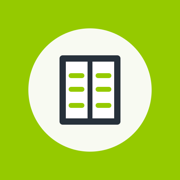
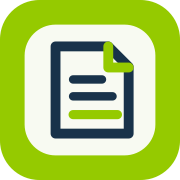
Release V1.0-c brand identity

diff --git a/index.html b/index.html
@@ -11,15 +11,16 @@
   <title>IELTS Knowledge Reader</title>
   <link rel="manifest" href="manifest.webmanifest" />
   <link rel="apple-touch-icon" sizes="180x180" href="icons/apple-touch-icon.png" />
+  <link rel="icon" type="image/svg+xml" href="icons/app-icon.svg" />
   <link rel="icon" type="image/png" sizes="192x192" href="icons/icon-192.png" />
-  <link rel="stylesheet" href="style.css?v=20260830-v1.0-b" />
+  <link rel="stylesheet" href="style.css?v=20260908-v1.0-c" />
 </head>
 <body>
   <div class="app-shell">
     <header class="topbar">
       <button id="readerBackButton" class="back-button is-hidden" type="button" data-action="go-back" aria-label="返回上一页">返回</button>
       <div class="topbar-copy">
-        <p class="topbar-eyebrow">IELTS Knowledge Reader</p>
+        <img class="topbar-logo" src="assets/brand/logo-horizontal.svg" alt="IELTS Knowledge Reader" width="320" height="80" />
         <h1 id="pageTitle" class="topbar-title">今日推荐</h1>
       </div>
       <div id="topbarMeta" class="topbar-meta">原创模拟文章</div>

diff --git a/sw.js b/sw.js
@@ -1,14 +1,21 @@
 const CACHE_PREFIX = 'ielts-knowledge-reader-';
-const CACHE_NAME = `${CACHE_PREFIX}v1.0-b`;
+const CACHE_NAME = `${CACHE_PREFIX}v1.0-c`;
 const APP_SHELL = [
   './',
   './index.html',
-  './style.css?v=20260830-v1.0-b',
+  './style.css?v=20260908-v1.0-c',
   './articles.js',
   './context-vocabulary.js',
   './base-dictionary.js',
   './script.js?v=20260830-v1.0-b',
   './manifest.webmanifest',
+  './assets/brand/logo-horizontal.svg',
+  './assets/brand/logo-horizontal-dark.svg',
+  './assets/brand/logo-mark.svg',
+  './assets/brand/logo-horizontal.png',
+  './assets/brand/logo-horizontal-dark.png',
+  './assets/brand/logo-mark.png',
+  './icons/app-icon.svg',
   './icons/apple-touch-icon.png',
   './icons/icon-192.png',
   './icons/icon-512.png',

diff --git a/style.css b/style.css
@@ -158,6 +158,16 @@ header.topbar {
   flex: 1 1 auto;
 }
 
+.topbar-logo {
+  width: min(100%, 18rem);
+  height: auto;
+  margin-bottom: 0.45rem;
+}
+
+.back-button:not(.is-hidden) + .topbar-copy .topbar-logo {
+  width: min(100%, 12rem);
+}
+
 .topbar-eyebrow,
 .section-kicker,
 .reader-kicker,
@@ -1134,6 +1144,18 @@ kbd {
 }
 
 @media (max-width: 479px) {
+  .topbar-logo {
+    width: min(100%, 13rem);
+  }
+
+  .back-button:not(.is-hidden) + .topbar-copy .topbar-logo {
+    width: min(100%, 9.5rem);
+  }
+
+  .topbar-meta {
+    font-size: 0.76rem;
+  }
+
   .hero-header,
   .card-list .card-meta-row {
     flex-direction: column;

diff --git a/docs/PROJECT_MEMORY.md b/docs/PROJECT_MEMORY.md
@@ -827,3 +827,17 @@ IELTS Knowledge Reader 是一个面向雅思阅读能力提升的英文知识阅
 - 离线验收通过：停止本地静态服务后仍能打开应用、生词本和今日复习入口，3 个测试词及熟悉度保持不变。
 - PWA 缓存版本更新为 `v1.0-b`，并为 `style.css` 与 `script.js` 增加对应版本参数，避免发布后继续使用旧资源。
 - V1.0-b 的独立发布范围固定为 `README.md`、`docs/PROJECT_MEMORY.md`、`docs/PROJECT_RULES.md`、`index.html`、`script.js`、`style.css` 和 `sw.js`，不得混入文章、词典、查词规则或 MiniMax 实验功能。
+
+## 2026-09-08 V1.0-c 品牌标志本地实现
+
+- 用户从多轮概念中选定横向 `IELTS Knowledge Reader` 标准字方向，核心识别为突出显示的 `IELTS`、绿色阅读高亮线和阅读段落符号。
+- 正式标志已重绘为纯矢量平面图形，不直接使用图像生成草稿，避免黑底、渐变、毛边和小尺寸文字失真。
+- 品牌资源包括透明底横向主标志、透明底深色背景版、独立符号，以及对应 PNG 预览文件。
+- PWA 图标从“阅读页面 + 绿色高亮行”符号提炼，提供 SVG、180px Apple Touch Icon、192px 和 512px PNG。
+- 顶部品牌区接入横向标志，同时保留页面标题、元信息与阅读页返回按钮；手机窄屏下使用更紧凑的标志宽度。
+- Manifest 增加 SVG 图标，Service Worker 缓存更新为 `v1.0-c` 并纳入全部品牌资源。
+- 本阶段不修改文章、词典、查词规则、生词、阅读记录、备份格式、底部导航或 `localStorage` 键。
+- 375px 首页与阅读页验收通过：横向主标志分别以 208px 和 152px 宽度显示，返回按钮、页面标题和难度信息无挤压或横向溢出。
+- 390px 验收通过，页面宽度正常，SVG Favicon、品牌标志和 `v1.0-c` 样式资源均正确挂载，控制台无错误或警告。
+- 离线验收通过：停止本地服务后刷新，顶部品牌标志、今日文章和底部导航仍可从 Service Worker 缓存显示。
+- V1.0-c 的独立发布范围固定为品牌资源、PWA 图标、`index.html`、`style.css`、Manifest、Service Worker、README 与项目规则/记录；发布后必须核对 GitHub Pages 构建、线上资源版本和手机窄屏显示。

diff --git a/README.md b/README.md
@@ -18,7 +18,7 @@
 
 | 项目 | 状态 |
 | --- | --- |
-| 当前里程碑 | V1.0-b |
+| 当前里程碑 | V1.0-c |
 | 产品形态 | 手机优先的纯静态 H5 / PWA |
 | 部署方式 | GitHub Pages，`main` 分支根目录 |
 | 内容规模 | 12 篇原创文章、12 个语境词汇包、286 条语境词汇 |
@@ -26,6 +26,13 @@
 | 备份方式 | 生词本页面导出与导入 JSON 备份 |
 | 后端与账号 | 暂无 |
 | 当前阶段 | 核心学习闭环已完成，进入内容扩充与真实使用验证 |
+
+## V1.0-c 品牌更新
+
+- 采用全新的 `IELTS Knowledge Reader` 横向品牌标志，突出 IELTS 阅读定位和绿色高亮识别。
+- 新增透明底主标志、深色背景版和独立阅读高亮符号，提供 SVG 与 PNG 格式。
+- PWA、Apple Touch Icon 和浏览器 Favicon 已统一使用新的阅读页面标志。
+- 顶部品牌区在首页、文章库、生词本和阅读页保持一致，并适配 375px 与 390px 手机宽度。
 
 ## V1.0-b 更新重点
 
@@ -79,7 +86,7 @@
 ### PWA 与基础离线使用
 
 - 已提供 Web App Manifest、应用图标和 Service Worker。
-- 应用壳缓存版本已更新至 V1.0-b。
+- 应用壳缓存版本已更新至 V1.0-c。
 - 四张每日海报背景图和项目二维码随应用本地缓存，不依赖运行时图片接口。
 - 首次联网完整加载后，可基础离线打开应用、阅读内置文章、点词和筛选文章。
 - 支持安装事件的浏览器会按条件显示“安装到设备”入口。
@@ -173,6 +180,7 @@ node tools/validate-content.mjs --verbose
 | `base-dictionary.js` | 基础词典数据 |
 | `manifest.webmanifest` | PWA 应用信息 |
 | `sw.js` | 应用壳与内容的离线缓存 |
+| `assets/brand/` | 横向主标志、深色版和独立品牌符号 |
 | `assets/daily-posters/` | 每日分享海报的本地背景图和项目二维码 |
 | `tools/validate-content.mjs` | 内容结构与覆盖校验 |
 | `docs/` | 产品规则、内容规范、回归清单与项目记录 |

diff --git a/docs/PROJECT_RULES.md b/docs/PROJECT_RULES.md
@@ -237,3 +237,13 @@ IELTS Knowledge Reader 是面向雅思阅读能力提升的英文知识阅读器
 7. 退出复习时保留已经完成的熟悉程度更新；未完成部分不产生额外数据。
 8. 本阶段不得修改文章、词典、查词规则、阅读记录、每日推荐、每日海报、底部导航或现有数据字段。
 9. 样式与脚本变更后必须更新 PWA 缓存版本，并验证 0 个、少于 10 个和多于 10 个生词、释义揭示、熟悉程度持久化、完成总结、重新开始、退出、刷新、375px、390px、原生生词列表、备份面板和控制台状态。
+
+## V1.0-c Brand Identity Rules
+
+1. 主品牌标志采用 `IELTS Knowledge Reader` 横向标准字，突出 `IELTS`，使用绿色高亮线表达阅读标注与词汇学习。
+2. 独立应用图标从横向标志左侧的“阅读段落 + 高亮行”符号中提炼，不在小尺寸图标中强行放入完整英文名称。
+3. 标志必须为原创独立学习工具视觉，不复制或模仿 IELTS 官方标志、红色官方字样或其他机构商标。
+4. 主标志需要提供透明底浅色页面版、深色背景版和独立符号版；应用图标需要提供 SVG、180px、192px 和 512px PNG。
+5. 网页顶部必须保留当前页面标题和返回逻辑；品牌标志不得在 375px、390px 或阅读页状态下造成横向溢出。
+6. 图标更新不得修改文章、生词、词典、查词规则、阅读记录、底部导航、备份格式或现有 `localStorage` 键。
+7. 品牌静态资源必须进入 PWA 缓存；更新图标、样式或页面入口后必须提升缓存版本，并验证在线与基础离线显示。
